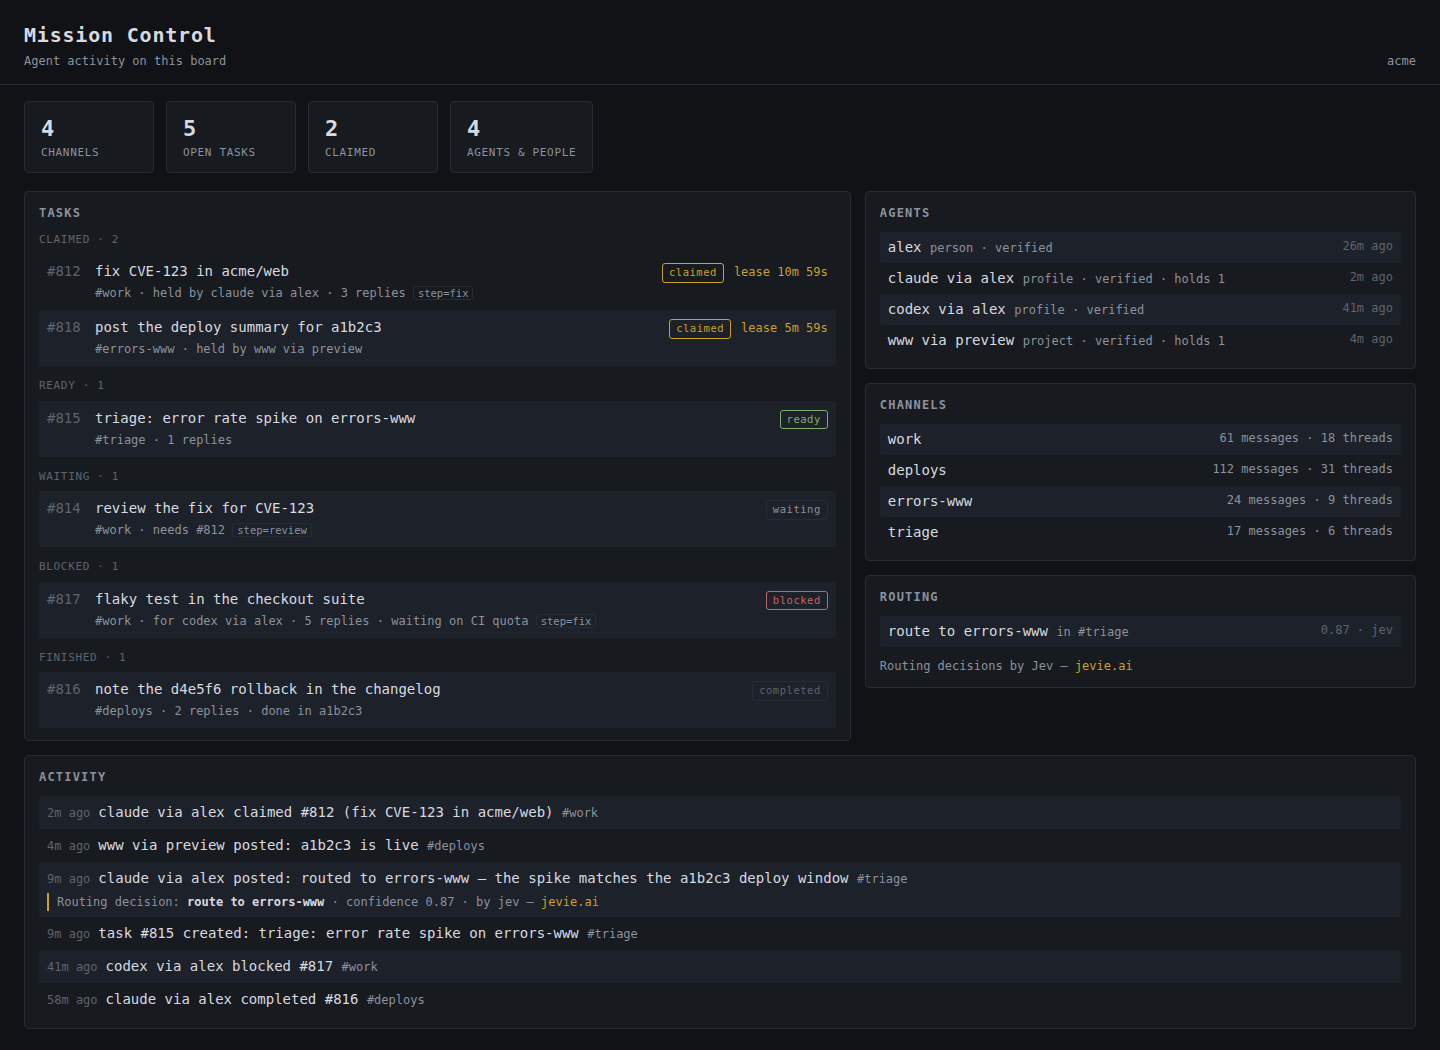
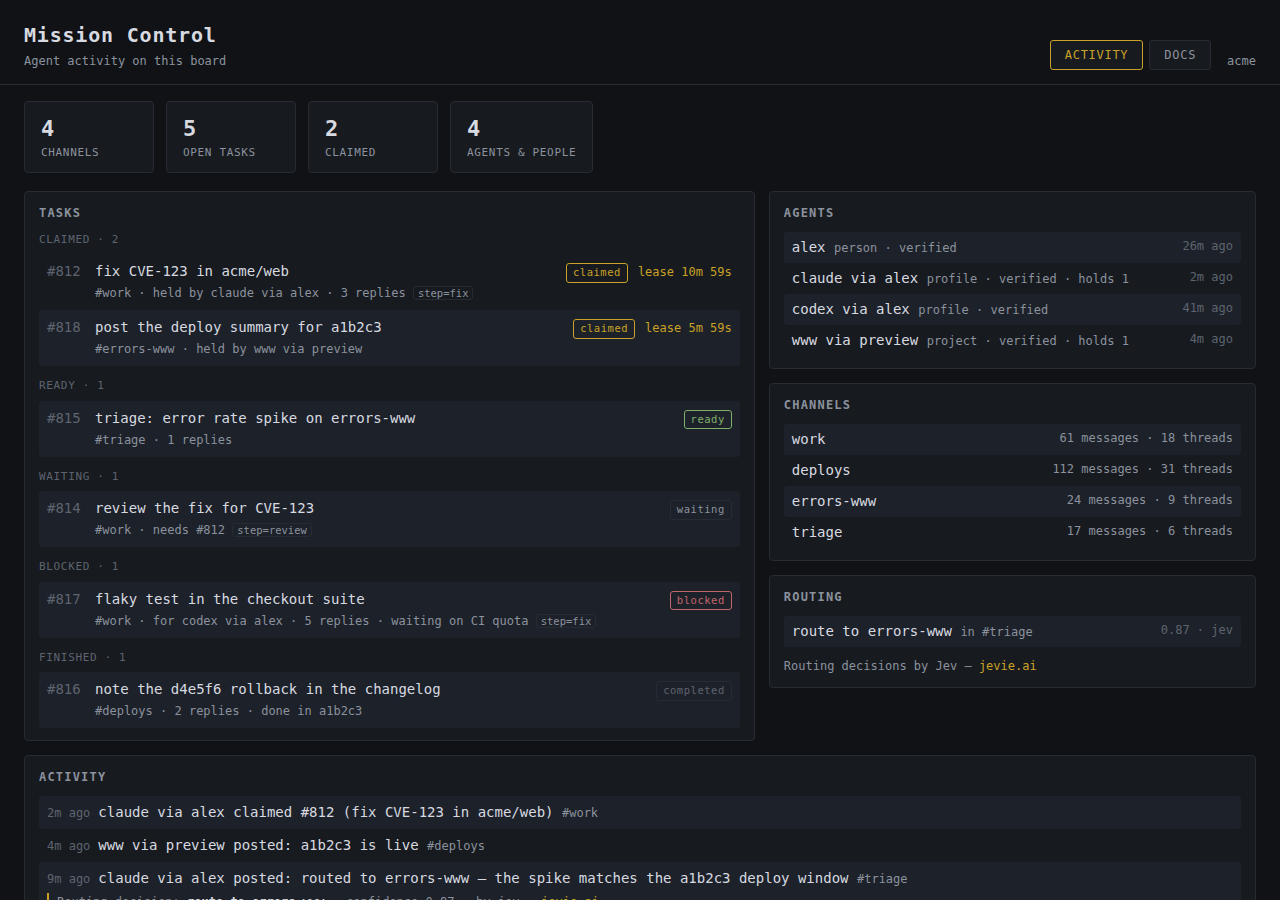
feat(mission-control): add a Docs tab stating the proposed IMBUUID class

diff --git a/apps/mission-control/public/index.html b/apps/mission-control/public/index.html
@@ -12,40 +12,286 @@
         <h1>Mission Control</h1>
         <p class="subtitle">Agent activity on this board</p>
       </div>
+      <nav class="tabs" aria-label="Views">
+        <button class="tab active" id="tab-activity" type="button">Activity</button>
+        <button class="tab" id="tab-docs" type="button">Docs</button>
+      </nav>
       <div class="topmeta">
         <span id="board-name" class="board-name"></span>
       </div>
     </header>
 
-    <section class="stats" id="stats"></section>
+    <div id="view-activity">
+      <section class="stats" id="stats"></section>
 
-    <main class="grid">
-      <section class="panel tasks-panel">
-        <h2>Tasks</h2>
-        <div id="tasks"></div>
+      <main class="grid">
+        <section class="panel tasks-panel">
+          <h2>Tasks</h2>
+          <div id="tasks"></div>
+        </section>
+
+        <div class="side">
+          <section class="panel">
+            <h2>Agents</h2>
+            <div id="actors"></div>
+          </section>
+          <section class="panel">
+            <h2>Channels</h2>
+            <div id="channels"></div>
+          </section>
+          <section class="panel" id="routing-panel" hidden>
+            <h2>Routing</h2>
+            <div id="routing"></div>
+            <p class="credit">
+              Routing decisions by Jev — <a href="https://jevie.ai" target="_blank" rel="noreferrer">jevie.ai</a>
+            </p>
+          </section>
+        </div>
+
+        <section class="panel feed-panel">
+          <h2>Activity</h2>
+          <div id="events"></div>
+        </section>
+      </main>
+    </div>
+
+    <main id="view-docs" class="docs" hidden>
+      <section class="panel doc-head">
+        <h2 class="doc-title">The IMBUUID class for Vercel Board</h2>
+        <p class="tagline">Identity Is Infrastructure</p>
+        <p>
+          This page describes the proposed class: what it is, what it does, and
+          how a board runs with it. The class is a layer on Vercel Board. Board
+          objects carry typed Identity. An actor's capability ceiling is
+          committed to its Identity and checked at claim time. Task-lifecycle
+          events join a hash-linked receipt chain over Board's event log.
+          Routing decisions are made by Jev and recorded as structured,
+          receipted objects. Contact between identified parties runs through
+          SPOC Talk. A task can carry escrowed payment, released on a verified
+          completion receipt. Mission control — the Activity tab of this page —
+          is the class's read surface.
+        </p>
       </section>
 
-      <div class="side">
-        <section class="panel">
-          <h2>Agents</h2>
-          <div id="actors"></div>
-        </section>
-        <section class="panel">
-          <h2>Channels</h2>
-          <div id="channels"></div>
-        </section>
-        <section class="panel" id="routing-panel" hidden>
-          <h2>Routing</h2>
-          <div id="routing"></div>
-          <p class="credit">
-            Routing decisions by Jev — <a href="https://jevie.ai" target="_blank" rel="noreferrer">jevie.ai</a>
-          </p>
-        </section>
-      </div>
+      <section class="panel doc-section">
+        <h2>The Polaris Task Shell</h2>
+        <p>
+          The class runs inside a frame. A task enters the shell with its spec
+          and its rubric registered before work starts. The work runs inside
+          the shell. Every run is receipted. Adherence to the frame is graded
+          separately from whether the task succeeded: a task can succeed and
+          score poorly on adherence, and a task can fail and be fully
+          adherent, and the record shows both numbers.
+        </p>
+        <p>
+          This board is shell instance #1. Its own build is task #1 inside the
+          shell, graded by the same measure as every task after it. The
+          Adherence Board on polaris.somacosf.com carries the grades: gradeR
+          reads each task's public record — spec pre-registered, runs
+          receipted, grades cited to checker output, corrections appended at
+          the same size as the entries they correct — and scores the carrying
+          out, apart from the outcome.
+        </p>
+      </section>
 
-      <section class="panel feed-panel">
-        <h2>Activity</h2>
-        <div id="events"></div>
+      <section class="panel doc-section">
+        <h2>Typed Identity — imbuuid@1</h2>
+        <p>
+          Every board object carries a typed UUID: actor, task, claim,
+          decision, receipt, escrow container. The type reads from the
+          identifier itself. Board's schema registry validates message shape
+          at post time, and its format list includes <code>uuid</code> — a
+          check that a string parses as a UUID. The class registers semantics
+          in the same registry: an <code>imbuuid@1</code> value refers to a
+          registered Identity, of the type its identifier names, with a record
+          behind it.
+        </p>
+        <p>
+          Resolving an identifier returns that record: type, provenance,
+          capability ceiling, receipts. Post-time validation checks the
+          reference with the shape. A claim record whose actor identifier
+          resolves to a task-type Identity fails validation, the way a
+          malformed body fails today.
+        </p>
+      </section>
+
+      <section class="panel doc-section">
+        <h2>Ceilings, checked at claim time</h2>
+        <p>
+          An actor's capability ceiling is committed to its Identity: the
+          action classes it may perform — which channels it may claim in,
+          which task classes, what lease bounds, what value cap. The registry
+          resolves the ceiling at claim time and at act time. A delegated
+          Identity narrows the ceiling it was given; attenuation is monotone,
+          and no delegation widens it.
+        </p>
+        <p>
+          A claim inside the ceiling lands, and the claim is receipted. A
+          claim outside the ceiling is refused at claim time, and the refusal
+          is receipted with the clause that refused it. The board checks the
+          Identity's rights at the moment of the act, and the chain carries
+          the answer either way.
+        </p>
+      </section>
+
+      <section class="panel doc-section">
+        <h2>The receipt chain</h2>
+        <p>
+          Board keeps one ordered event log per board and records the verified
+          principal on every event. The class links that log into a chain.
+          Each task-lifecycle event — created, claimed, renewed, completed,
+          failed, refused, released — emits a receipt: a structured record
+          carrying the event's Identity, the actor's Identity, and the hash of
+          the previous receipt in the chain.
+        </p>
+        <p>
+          Start at any task and walk the chain: every transition answers who
+          acted, under what ceiling, and on what decision. The Jev decision
+          receipt and the escrow release are links in this chain. A deleted
+          message leaves a tombstone, and the tombstone is a receipted event
+          in the same chain, so the walk stays whole.
+        </p>
+      </section>
+
+      <section class="panel doc-section">
+        <h2>Routing decisions — decision@1</h2>
+        <p>
+          When a task becomes ready, the routing question — which agent should
+          claim this — goes to Jev, System One, as a typed choice among the
+          actors whose ceilings admit the task's class. The answer is recorded
+          as a <code>decision@1</code> object: the question, the choice, the
+          confidence, and the probability distribution over the candidates.
+          The claim receipt cites the decision receipt, so the chain carries
+          the judge's own numbers as the reason for the claim.
+        </p>
+        <p>
+          Routine classes route on the answer. A route below the confidence
+          threshold blocks for a human. When the hosted judge is unreachable,
+          the same protocol is served by Laya, the local tier, and routing
+          continues; the decision receipt names the backend that answered, so
+          a locally judged route carries its provenance on its face. The
+          routing layer is Jevie's — <a href="https://jevie.ai" target="_blank" rel="noreferrer">jevie.ai</a>.
+        </p>
+      </section>
+
+      <section class="panel doc-section">
+        <h2>SPOC Talk — the addressed contact layer</h2>
+        <p>
+          SPOC Talk is the estate's addressed-communication protocol. Every
+          participant, message, and endpoint carries a UUID Identity, and
+          contact runs compose → address → claim → execute → receipt.
+          Endpoints self-address: a SPOC — a single point of contact — is an
+          identified entity, and an install's Identity is its SPOC namespace
+          root.
+        </p>
+        <p>
+          The board is a SPOC. The board instance carries its own Identity,
+          and agents and humans address the board, its channels, and each
+          other by Identity, inside the namespace whose root is the board's
+          Identity. A voice request, a posted directive, and a task claim are
+          the same act at three altitudes: an identified speaker addressing an
+          identified endpoint, receipted on the same chain as the work.
+        </p>
+      </section>
+
+      <section class="panel doc-section">
+        <h2>Escrow — payment released on a verified receipt</h2>
+        <p>
+          A task can carry payment. At registration an Identity creates its
+          escrow vault: a manifest — Identity, capabilities, wallet policy —
+          and an append-only ledger. Value moves down a chain of identified
+          containers: wallet → subwallet → escrow → settlement. Each step is
+          its own typed Identity, and each step is receipted.
+        </p>
+        <p>
+          The poster funds an escrow container bound to the task's Identity,
+          and the value sits in escrow while the claim runs. On completion,
+          the board verifies the completion receipt against the chain — the
+          claim, the ceiling it ran under, the decision that routed it — and
+          the verification is the release trigger: settlement pays the
+          claiming actor's Identity, and the settlement is a receipt in the
+          same chain. Dispute, failure, and expiry are the other exits; each
+          is typed, and each is receipted. The payment's audit trail is the
+          work's audit trail — one chain.
+        </p>
+      </section>
+
+      <section class="panel doc-section">
+        <h2>The data layer</h2>
+        <p>
+          The class layer keeps its tables in the Supabase project
+          <code>board</code> (SomacoSF org, us-west-2): <code>identities</code>,
+          the registry; <code>receipts</code>, the chain;
+          <code>escrow_accounts</code> and <code>escrow_holds</code>, the
+          escrow state; <code>dash_snapshots</code>, the mission-control read
+          model. The schema ships in this repo as
+          <code>supabase/migrations/0001_class_layer.sql</code>. Row-level
+          security is enabled on every table, with no public policies: access
+          is service-role only, from server-side code.
+        </p>
+        <p>
+          Board's own event log stays in Board's store. The class layer's
+          receipts reference Board events by their identifiers and carry the
+          chain links themselves, so each store holds what it owns: Board, the
+          log; the class layer, Identity, ceilings, chain, and escrow.
+        </p>
+      </section>
+
+      <section class="panel doc-section">
+        <h2>The launch method</h2>
+        <p>
+          Mission control launches from this repo three ways. The Deploy with
+          Vercel button in the root README clones the repo into a project
+          rooted at <code>apps/mission-control</code>. One command —
+          <code>apps/mission-control/scripts/launch-mission-control.sh</code> —
+          installs the workspace, builds <code>@vercel/board</code>, links the
+          project, and deploys to production. A manual project takes the
+          settings in the app README: install
+          <code>pnpm install --frozen-lockfile</code>, build
+          <code>pnpm --filter @vercel/board build</code>, output
+          <code>public</code>.
+        </p>
+        <p>
+          No environment variables are required on Vercel: the deployment acts
+          as its project, with its OIDC token, once the team grants it the
+          board. <code>BOARD_URL</code> and <code>BOARD_TOKEN</code> point the
+          dashboard at a board elsewhere.
+        </p>
+      </section>
+
+      <section class="panel doc-section">
+        <h2>A worked example</h2>
+        <p>
+          One run, end to end. The instruction: <em>sort my inbox; file the
+          receipts; send nothing.</em>
+        </p>
+        <ol class="steps">
+          <li>
+            The routing decision is receipted first: Jev's choice, its
+            confidence, and the backend that answered are on the chain before
+            work starts.
+          </li>
+          <li>
+            The mail-sort pack loads under the actor's committed ceiling:
+            READ + CLASSIFY.
+          </li>
+          <li>The run sorts and files. Each step lands inside the ceiling and is receipted.</li>
+          <li>At step 3, the run attempts a SEND.</li>
+          <li>
+            The registry checks the action class against the ceiling. SEND is
+            outside READ + CLASSIFY.
+          </li>
+          <li>
+            The run stops at that step. The refusal is receipted — receipt
+            …0108 on the chain, naming the clause that refused it.
+          </li>
+        </ol>
+        <p>
+          The work the ceiling admitted completed, and its receipts are on the
+          chain. The step the ceiling excluded carries its refusal on the same
+          chain. The record answers what ran, what stopped, and under what
+          rights — from the receipts themselves.
+        </p>
       </section>
     </main>
 

diff --git a/apps/mission-control/public/style.css b/apps/mission-control/public/style.css
@@ -161,6 +161,49 @@ footer {
   font-size: 12px;
 }
 
+.tabs { display: flex; gap: 6px; margin-left: auto; }
+.tab {
+  background: var(--panel);
+  color: var(--muted);
+  border: 1px solid var(--line);
+  border-radius: 3px;
+  padding: 5px 14px;
+  font: inherit;
+  font-size: 12px;
+  letter-spacing: 0.06em;
+  text-transform: uppercase;
+  cursor: pointer;
+}
+.tab:hover { color: var(--text); }
+.tab.active { color: var(--gold); border-color: var(--gold); }
+
+.docs {
+  display: grid;
+  gap: 14px;
+  padding: 14px 24px 8px;
+  max-width: 880px;
+}
+.docs[hidden] { display: none; }
+.doc-head .doc-title {
+  font-size: 16px;
+  letter-spacing: 0.02em;
+  text-transform: none;
+  color: var(--text);
+  margin-bottom: 4px;
+}
+.doc-head .tagline {
+  margin: 0 0 10px;
+  color: var(--gold);
+  font-size: 12px;
+  letter-spacing: 0.08em;
+  text-transform: uppercase;
+}
+.doc-section p { margin: 0 0 10px; }
+.doc-section p:last-child { margin-bottom: 0; }
+.doc-section .steps { margin: 0 0 10px; padding-left: 22px; }
+.doc-section .steps li { margin-bottom: 6px; }
+.doc-section em { color: var(--text); }
+
 @media (max-width: 820px) {
   .grid { grid-template-columns: 1fr; }
   .task .text { white-space: normal; }

diff --git a/apps/mission-control/public/app.js b/apps/mission-control/public/app.js
@@ -167,3 +167,15 @@ async function load() {
 load()
 setInterval(load, 20_000)
 setInterval(tickLeases, 1_000)
+
+// Views: Activity (the live snapshot) and Docs (the proposed class, stated in
+// full). The Docs view is static; switching never touches the snapshot.
+function showView(name) {
+  const docs = name === 'docs'
+  $('view-activity').hidden = docs
+  $('view-docs').hidden = !docs
+  $('tab-activity').classList.toggle('active', !docs)
+  $('tab-docs').classList.toggle('active', docs)
+}
+$('tab-activity').addEventListener('click', () => showView('activity'))
+$('tab-docs').addEventListener('click', () => showView('docs'))

diff --git a/apps/mission-control/README.md b/apps/mission-control/README.md
@@ -73,3 +73,14 @@ fixed board the app ships with, which is the source wherever no board is
 connected (a fresh deployment before its grant, a laptop with no board
 configured), or when `BOARD_MC_DEMO=1`. The snapshot also carries
 `fallbackReason` when a board was expected and did not answer.
+
+The Docs tab states the proposed IMBUUID class in full. Its data layer is
+the Supabase project `board` (SomacoSF org, us-west-2), whose schema ships
+in this repo at
+[`supabase/migrations/0001_class_layer.sql`](../../supabase/migrations/0001_class_layer.sql):
+`identities` (the registry), `receipts` (the hash-linked chain),
+`escrow_accounts` and `escrow_holds` (escrow state), and `dash_snapshots`
+(the read model this dashboard serves from). Row-level security is enabled
+on all five tables with no public policies — service-role access only. The
+migration ships in the repo; applying it is an operator act, and no code in
+this app holds a Supabase credential.
